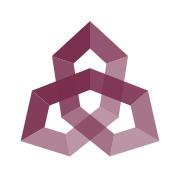
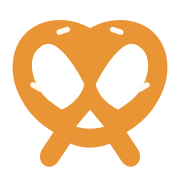
Adopt Bretzel brand identity

diff --git a/bretzel/theme/palette.py b/bretzel/theme/palette.py
@@ -224,7 +224,7 @@ DEFAULT_PALETTE: Final[dict[str, str]] = {
     "ruby":    "#e54666",
     "crimson": "#e93d82",
     "pink":    "#d6409f",
-    "plum":    "#ab4aba",
+    "plum":    "#682747",
     "purple":  "#8e4ec6",
     "violet":  "#6e56cf",
     "iris":    "#5b5bd6",
@@ -239,7 +239,7 @@ DEFAULT_PALETTE: Final[dict[str, str]] = {
     "yellow":  "#f5d90a",
     "amber":   "#ffc53d",
     "orange":  "#f76b15",
-    "gold":    "#978365",
+    "gold":    "#e99536",
     "bronze":  "#a18072",
     "brown":   "#ad7f58",
     "black":   "#000000",
@@ -281,8 +281,8 @@ DEFAULT_SEMANTIC_LIGHT: Final[dict[str, str]] = {
     # ``test_palette_distinctness`` — ΔE 21 de l'accent, donc deux
     # couleurs sémantiques qui se ressemblent et une matrice de variantes
     # ambiguë.
-    "primary":    "#3a52b0",
-    "secondary":  "#9c3f72",
+    "primary":    "#682747",
+    "secondary":  "#3a52b0",
     "success":    "#2f9e64",
     "error":      "#e5484d",
     "warning":    "#f0a91b",

diff --git a/BRAND.md b/BRAND.md
@@ -2,9 +2,9 @@
 
 ## Idea
 
-The mark is the **Bretzel knot**: three paths forming one continuous system.
-They stand for typed state, server rendering and the browser loop. The shape is
-technical before it is culinary; the warm accent keeps it human.
+The mark is a literal **pretzel knot** reduced to one warm, recognisable shape.
+Its three openings echo typed state, server rendering and the browser loop,
+without turning the identity into a technical diagram.
 
 ## Positioning
 
@@ -24,7 +24,7 @@ included.
 |---|---:|---|
 | Bretzel Plum | `#682747` | Primary mark, links and key actions |
 | Raspberry | `#A63F6B` | Active and expressive accent |
-| Warm Dough | `#F2A65A` | Human highlight, never body text |
+| Warm Dough | `#E99536` | Mark and human highlight, never body text |
 | Cream | `#FFF8F0` | Warm light background |
 | Ink | `#201820` | Primary text and dark surfaces |
 | Mist | `#EEE7EC` | Borders and quiet surfaces |
@@ -52,4 +52,5 @@ for an explanation.
 - Keep clear space equal to the central opening around the mark.
 - Do not rotate, outline or place the full-colour mark on a busy background.
 - Use the monochrome asset at small sizes or where colour is unavailable.
+- Keep the salt details for display sizes; omit them below 32 px.
 - The 64×64 mark is the source for favicons and avatars.
